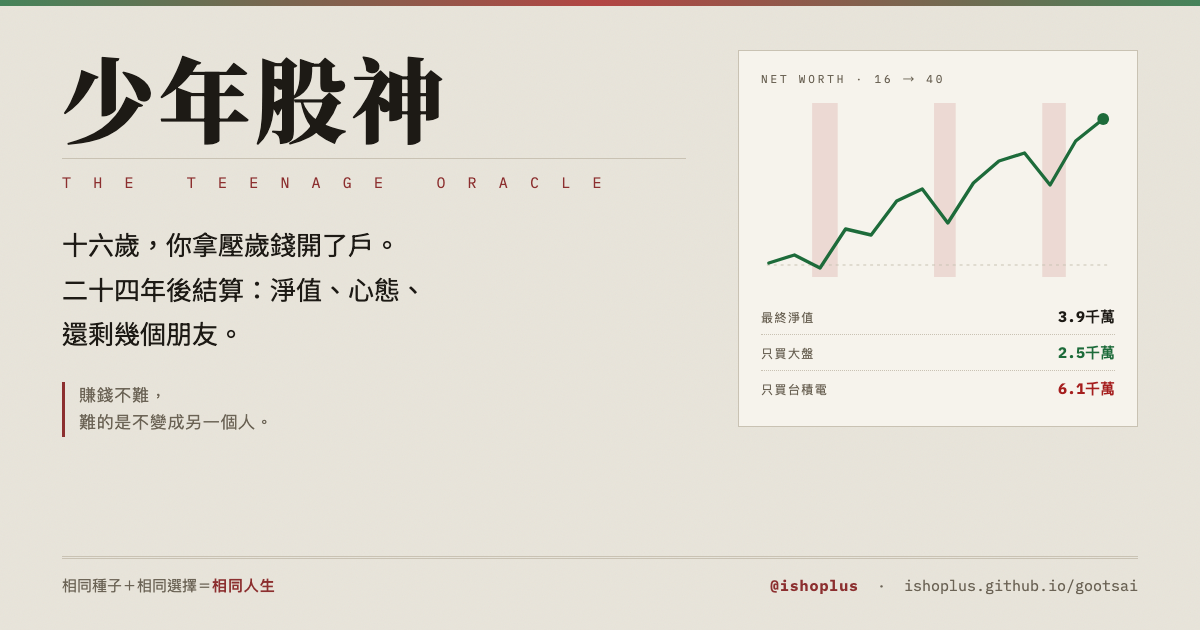
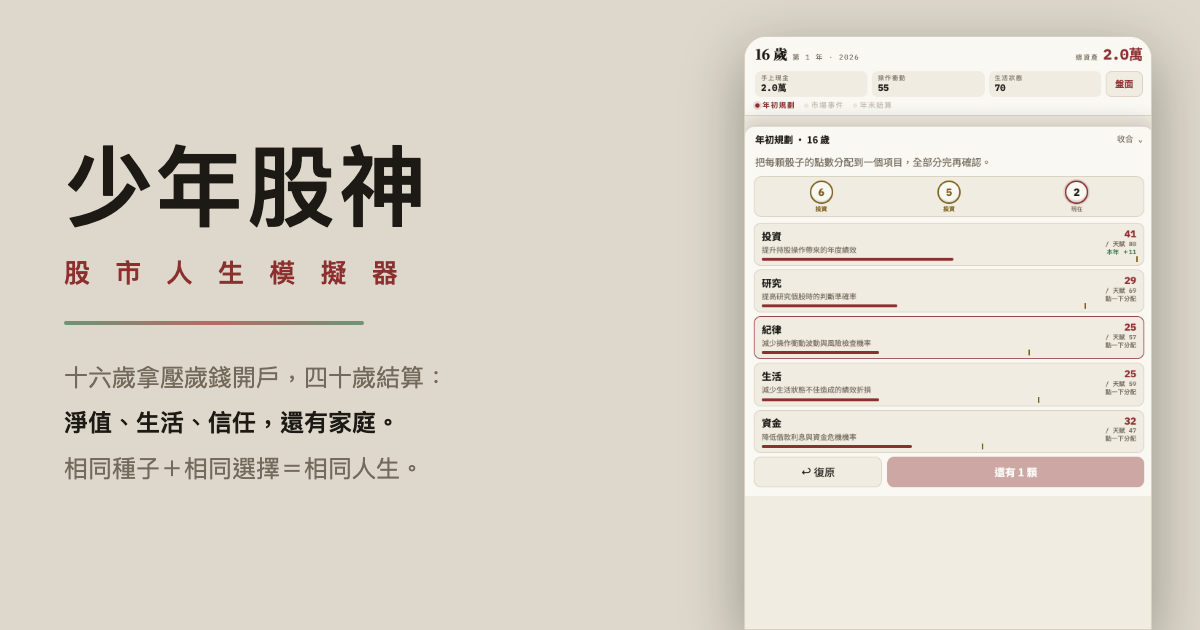
推廣基建：一鍵分享結局、埋點就緒、og 分享圖換新版
病毒的載體是玩家貼出去的那段文字。結局頁加「複製結局，貼去嗆人」：

  【少年股神】40 歲結算：中實戶
  淨值 1494萬｜年化 +30.3%｜贏過 ETF +35.2%
  生活 97・信任 63・家庭 已婚
  「後來」：不是傳奇。
  同一顆種子，你會活得比我好嗎？
  <帶種子連結>

帶種子連結＝隱形戰帖，對方點開就是同一顆種子。剪貼簿失敗時
整段印在畫面上手動複製，永遠有路。

埋點（GoatCounter）接好但 GC_CODE 留空＝整段完全不動作：
start-<風格>／end-<結局>／share 三個事件，start 對 end 是完成率、
share 是傳播係數。CSP 已預留網域，填入站台代碼即啟用。

og.png 換成新版實況合成圖（1200×630，左標題右遊戲畫面）。
VERSION 43→44，SEMVER 0.11.0。

diff --git a/index.html b/index.html
@@ -8,8 +8,8 @@
   script-src 'self' 'unsafe-inline';
   style-src 'self' 'unsafe-inline' https://fonts.googleapis.com;
   font-src https://fonts.gstatic.com;
-  img-src 'self' data:;
-  connect-src 'self';
+  img-src 'self' data: https://*.goatcounter.com;
+  connect-src 'self' https://*.goatcounter.com;
   base-uri 'none';
   form-action 'none'">
 <title>少年股神 · 股市人生模擬器</title>
@@ -352,7 +352,7 @@ svg.chart{width:100%;height:130px;display:block}
   </div>
 </div></div>
 
-<script src="kernel.js?v=43"></script>
+<script src="kernel.js?v=44"></script>
 <script>
 'use strict';
 /* 這一層是純呈現。鐵律沿用：呈現層一律禁止呼叫內核的亂數——
@@ -367,6 +367,23 @@ function facts(s){
     return '<b class="num'+c+'">'+n+'</b>';
   });
 }
+/* ---- 埋點（GoatCounter）----
+   GC_CODE 留空＝整段完全不動作，不發出任何請求。
+   註冊 goatcounter.com 站台代碼後填入即可收數據：
+   start-<風格>、end-<結局>、share 三個事件，加上瀏覽數。 */
+const GC_CODE='';
+function track(ev){
+  if(!GC_CODE || location.protocol==='file:') return;
+  try{
+    const i=document.createElement('img');
+    i.src='https://'+GC_CODE+'.goatcounter.com/count?p='+encodeURIComponent('/'+(ev||''))+
+          '&t='+encodeURIComponent(ev||'view');
+    i.style.display='none';
+    if(document.body&&document.body.appendChild) document.body.appendChild(i);
+  }catch(e){}
+}
+track('');
+
 function money(v){
   const a=Math.abs(v);
   if(a>=10000) return (v/10000).toFixed(2)+'億';
@@ -394,7 +411,7 @@ applyDisplay();
 
 /* kernel.js 是外部檔案，而 CSP 的 script-src 'self' 在 file:// 底下比對不到來源，
    直接雙擊打開會載不到內核。與其停在白畫面，不如講清楚怎麼跑。 */
-const NEED_VERSION=43;
+const NEED_VERSION=44;
 if(typeof KERNEL!=='undefined' && !(KERNEL.VERSION>=NEED_VERSION)){
   document.getElementById('start').innerHTML=
     '<h1>內核是舊的<em>STALE KERNEL '+(KERNEL.VERSION||0)+' &lt; '+NEED_VERSION+'</em></h1>'+
@@ -447,6 +464,7 @@ $('go').onclick=()=>{
   g.setPlan(plan);
   $('start').style.display='none';
   $('game').style.display='';
+  track('start-'+plan);
   benchHist=[]; navHist=[];
   const f=$('feed'); if(f)f.innerHTML='';
   nextYear();
@@ -905,11 +923,7 @@ function ending(){
         tile('贏過 ETF',sgn(e.edge)+'%',e.edge>=0?'up':'dn')+
         tile('生活',Math.round(e.life))+
         tile('信任',Math.round(e.trust==null?50:e.trust))+
-        tile('家庭',(function(L){ if(!L)return '—';
-          if(L.st==='married')return '已婚'+(L.kids?'·'+L.kids+'孩':'');
-          if(L.st==='dating')return '交往中';
-          if(L.exes&&L.kids)return '離婚·'+L.kids+'孩';
-          return L.exes?'分過手':'單身'; })(e.love))+
+        tile('家庭',famLabel(e.love))+
         tile('存進去',money(e.inflow))+
         tile('ETF 對照',money(e.bench))+
         tile('股利',money(e.div))+
@@ -922,11 +936,42 @@ function ending(){
   /* 「後來」：每個結局的第二人生（素材來自真實案例）。
      終止不是懲罰，是敘事出口。 */
   if(e.story) card('info','後來',esc(e.story));
+  track('end-'+e.id);
+  endAsk(e);
+  paint();
+}
+function famLabel(L){
+  if(!L) return '—';
+  if(L.st==='married') return '已婚'+(L.kids?'·'+L.kids+'孩':'');
+  if(L.st==='dating') return '交往中';
+  if(L.exes&&L.kids) return '離婚·'+L.kids+'孩';
+  return L.exes?'分過手':'單身';
+}
+/* ---- 分享結局：病毒的載體是玩家貼出去的那段文字 ----
+   帶種子連結＝隱形戰帖：對方點開就是同一顆種子，「你會活得比我好嗎」。 */
+function endAsk(e){
   ask('投資 '+e.years+' 年，結束了','',[
-    {t:'再玩一次（同一顆種子）',main:1,f:()=>location.reload()},
+    {t:'複製結局，貼去嗆人',main:1,f:()=>{ copyEnding(e); endAsk(e); }},
+    {t:'再玩一次（同一顆種子）',f:()=>location.reload()},
     {t:'換一顆種子',f:()=>{ location.href=location.pathname; }}
   ]);
-  paint();
+}
+function copyEnding(e){
+  const seed=new URLSearchParams(location.search).get('seed')||'';
+  const url=location.origin+location.pathname+(seed?'?seed='+encodeURIComponent(seed):'');
+  const story=(e.story||'').split('。')[0];
+  const txt='【少年股神】'+(e.age||40)+' 歲結算：'+e.t+'\n'+
+    '淨值 '+money(e.nav)+'｜年化 '+sgn(e.cagr)+'%｜'+(e.edge>=0?'贏過':'輸給')+' ETF '+sgn(Math.abs(e.edge))+'%\n'+
+    '生活 '+Math.round(e.life)+'・信任 '+Math.round(e.trust==null?50:e.trust)+'・家庭 '+famLabel(e.love)+'\n'+
+    (story?'「後來」：'+story+'。\n':'')+
+    '同一顆種子，你會活得比我好嗎？\n'+url;
+  let ok=false;
+  try{
+    if(navigator.clipboard&&navigator.clipboard.writeText){ navigator.clipboard.writeText(txt); ok=true; }
+  }catch(err){}
+  track('share');
+  card('info',ok?'已複製，拿去吧':'手動複製這段',
+    esc(txt).replace(/\n/g,'<br>'));
 }
 </script>
 </body>

diff --git a/kernel.js b/kernel.js
@@ -2108,8 +2108,8 @@ function wrap(g){
    並同步改 index.html 的 ?v= 與 NEED_VERSION。只增不減，不對人展示。
    SEMVER（語意版本，人讀）——主.次.修：修＝文案與修補、
    次＝玩法/平衡/內容、主＝1.0 正式版。開場頁徽章顯示這個。 */
-const VERSION=43;
-const SEMVER='0.10.0';   /* 新內容：外遇線 */
+const VERSION=44;
+const SEMVER='0.11.0';   /* 分享結局＋埋點基建 */
 
 return {newGame:newGame, VERSION:VERSION, SEMVER:SEMVER, EVENTS:EVENTS, slip:slip, SIG_FLOOR:SIG_FLOOR, INST:INST, BY_ID:BY_ID, HABITS:HABITS, SIGNALS:SIGNALS,
         THEMES:THEMES, REGIME:REGIME, ENDINGS:ENDINGS, TOTAL:TOTAL,
